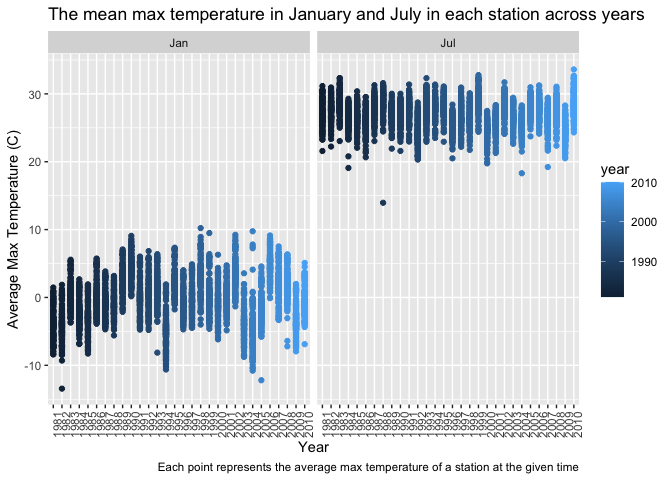
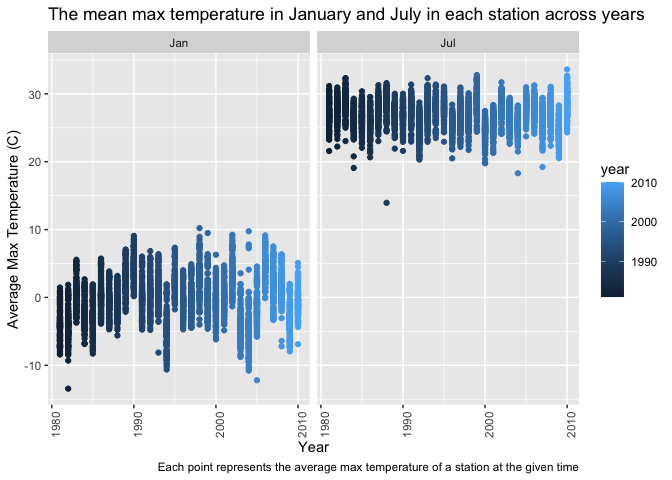
problem 3 all plots

Changed region(s): [[0.0625, 0.4688, 0.875, 0.9375], [0.4688, 0.125, 0.875, 0.375], [0.5625, 0.4062, 0.5938, 0.4375]]

diff --git a/fx2184_hw3.md b/fx2184_hw3.md
@@ -23,6 +23,11 @@ library(devtools)
 
     ## Loading required package: usethis
 
+``` r
+library(patchwork)
+library(ggridges)
+```
+
 # problem1
 
 ``` r
@@ -126,35 +131,20 @@ Three Most Popular Items in each of the aisles
 ``` r
 # Make a table showing the mean hour of the day at which Pink Lady Apples and Coffee Ice Cream are ordered on each day of the week; format this table for human readers (i.e. produce a 2 x 7 table).
 instacart_df %>% 
-  filter(product_name == c("Pink Lady Apples", "Coffee Ice Cream")) %>% 
-  group_by(product_name,order_dow) %>% 
-  summarize( mean_hour_of_day = mean(order_hour_of_day)) %>% 
-  mutate(order_dow = recode(order_dow,
-                            "0" = "Monday",
-                            "1" = "Tuesday",
-                            "2" = "Wednesday", 
-                            "3" = "Thursday", 
-                            "4" = "Friday", 
-                            "5" = "Saturday", 
-                            "6" = "Sunday"
-  )) %>% 
-  pivot_wider(
-    names_from = order_dow,
-    values_from = mean_hour_of_day) %>% 
-  knitr::kable(
-    digits = 2,
-    caption = "Mean Hour of the Day")
+  filter(product_name %in% c("Pink Lady Apples", "Coffee Ice Cream")) %>%
+  group_by(product_name, order_dow) %>%
+  summarize(mean_hour = mean(order_hour_of_day)) %>%
+  spread(key = order_dow, value = mean_hour) %>%
+  knitr::kable(digits = 2)
 ```
 
     ## `summarise()` has grouped output by 'product_name'. You can override using the
     ## `.groups` argument.
 
-| product_name     | Monday | Tuesday | Wednesday | Thursday | Friday | Saturday | Sunday |
-|:-----------------|-------:|--------:|----------:|---------:|-------:|---------:|-------:|
-| Coffee Ice Cream |  13.22 |   15.00 |     15.33 |    15.40 |  15.17 |    10.33 |  12.35 |
-| Pink Lady Apples |  12.25 |   11.68 |     12.00 |    13.94 |  11.91 |    13.87 |  11.56 |
-
-Mean Hour of the Day
+| product_name     |     0 |     1 |     2 |     3 |     4 |     5 |     6 |
+|:-----------------|------:|------:|------:|------:|------:|------:|------:|
+| Coffee Ice Cream | 13.77 | 14.32 | 15.38 | 15.32 | 15.22 | 12.26 | 13.83 |
+| Pink Lady Apples | 13.44 | 11.36 | 11.70 | 14.25 | 11.55 | 12.78 | 11.94 |
 
 # problem 2
 
@@ -306,7 +296,6 @@ ny_noaa %>%
 # Make a two-panel plot showing the average max temperature in January and in July in each station across years. Is there any observable / interpretable structure? Any outliers?
 
 ``` r
-#label <- c('01'='January', '07'='July')
  ny_noaa %>% 
    filter(month == 1| month == 7) %>% 
    mutate(month = month.abb[month]) %>% 
@@ -315,7 +304,7 @@ ny_noaa %>%
    group_by(month,year,id) %>% 
    summarise(mean_month = mean(tmax)) %>% 
    ggplot(aes(
-     x=factor(year),
+     x=year,
      y=mean_month,
      color=year))+
    geom_point() +
@@ -342,7 +331,7 @@ ny_noaa %>%
 # Make a two-panel plot showing (i) tmax vs tmin for the full dataset (note that a scatterplot may not be the best option)
 
 ``` r
-ny_noaa %>%
+plot1= ny_noaa %>%
         filter(!is.na(tmax),!is.na(tmin)) %>%
         ggplot(aes(x = tmin, y = tmax)) +
         geom_hex() + 
@@ -351,8 +340,36 @@ ny_noaa %>%
              title = "Max vs Min Temperature") +
         theme(plot.title = element_text(size = 12)) +
         theme(axis.title = element_text(size = 10)) +
-        theme(axis.text = element_text(size = 10)) +
-        theme(legend.text = element_text(size = 5))
+        theme(axis.text = element_text(size = 10)) 
 ```
 
-![](fx2184_hw3_files/figure-gfm/unnamed-chunk-12-1.png)<!-- -->
+``` r
+# make a plot showing the distribution of snowfall values greater than 0 and less than 100 separately by year.
+plot2 = ny_noaa %>% 
+  filter(!is.na(snow)) %>%
+  filter(snow>0,snow<100) %>%
+  ggplot(aes(x=snow, y=as.factor(year)))+
+  geom_density_ridges(alpha=0.8)+
+  ggtitle('The distribution of snowfall values between 0 and 100 by year')+
+  theme(legend.position = "bottom")
+```
+
+\#patch work
+
+``` r
+plot1+plot2
+```
+
+    ## Picking joint bandwidth of 3.76
+
+![](fx2184_hw3_files/figure-gfm/unnamed-chunk-14-1.png)<!-- -->
+
+-   The hex plot shows that the high frequencies concentrate in the
+    middle, which indicates that when the min temp within 0-20 degree
+    Celcius and max temp within 0-25 degree celcius, we have the most of
+    observations.
+
+-   The snowfall density curve indicates that the density curves overlap
+    a lot, which indicates that the snowfall from 1981 to 2004 does not
+    change greatly over the years. The most frequent snowfall value is
+    25mm in range 0 to 100mm.
